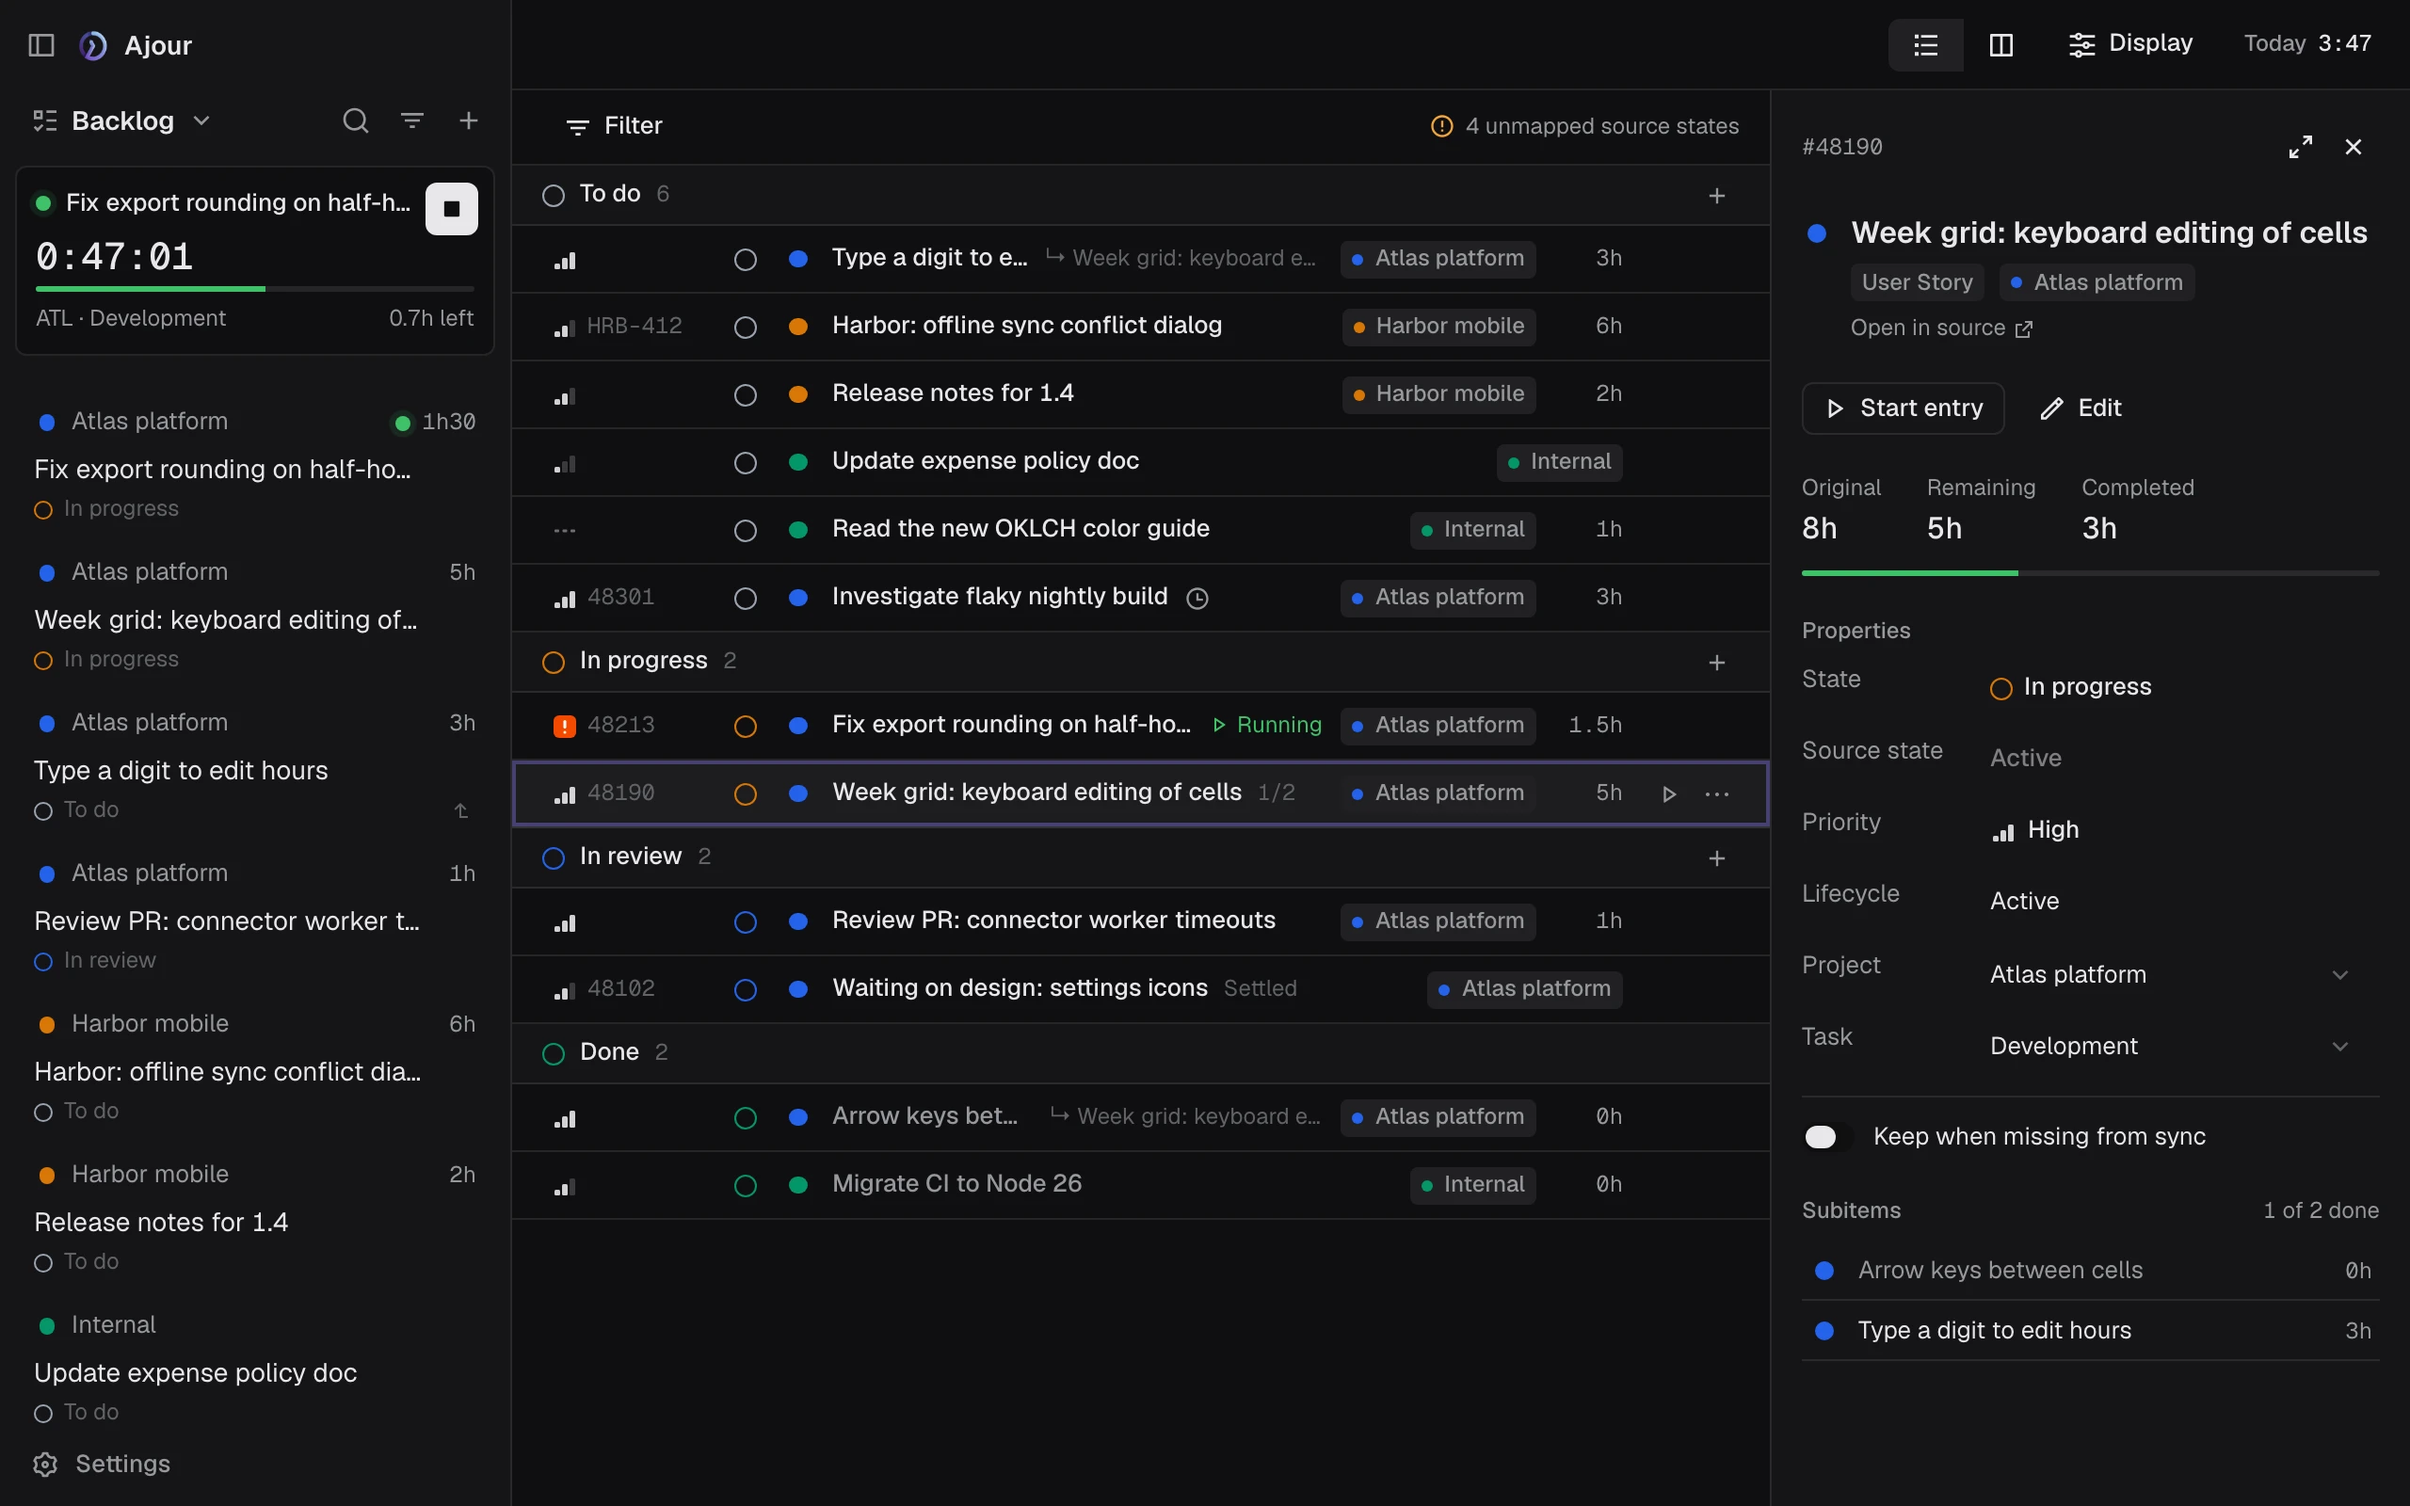
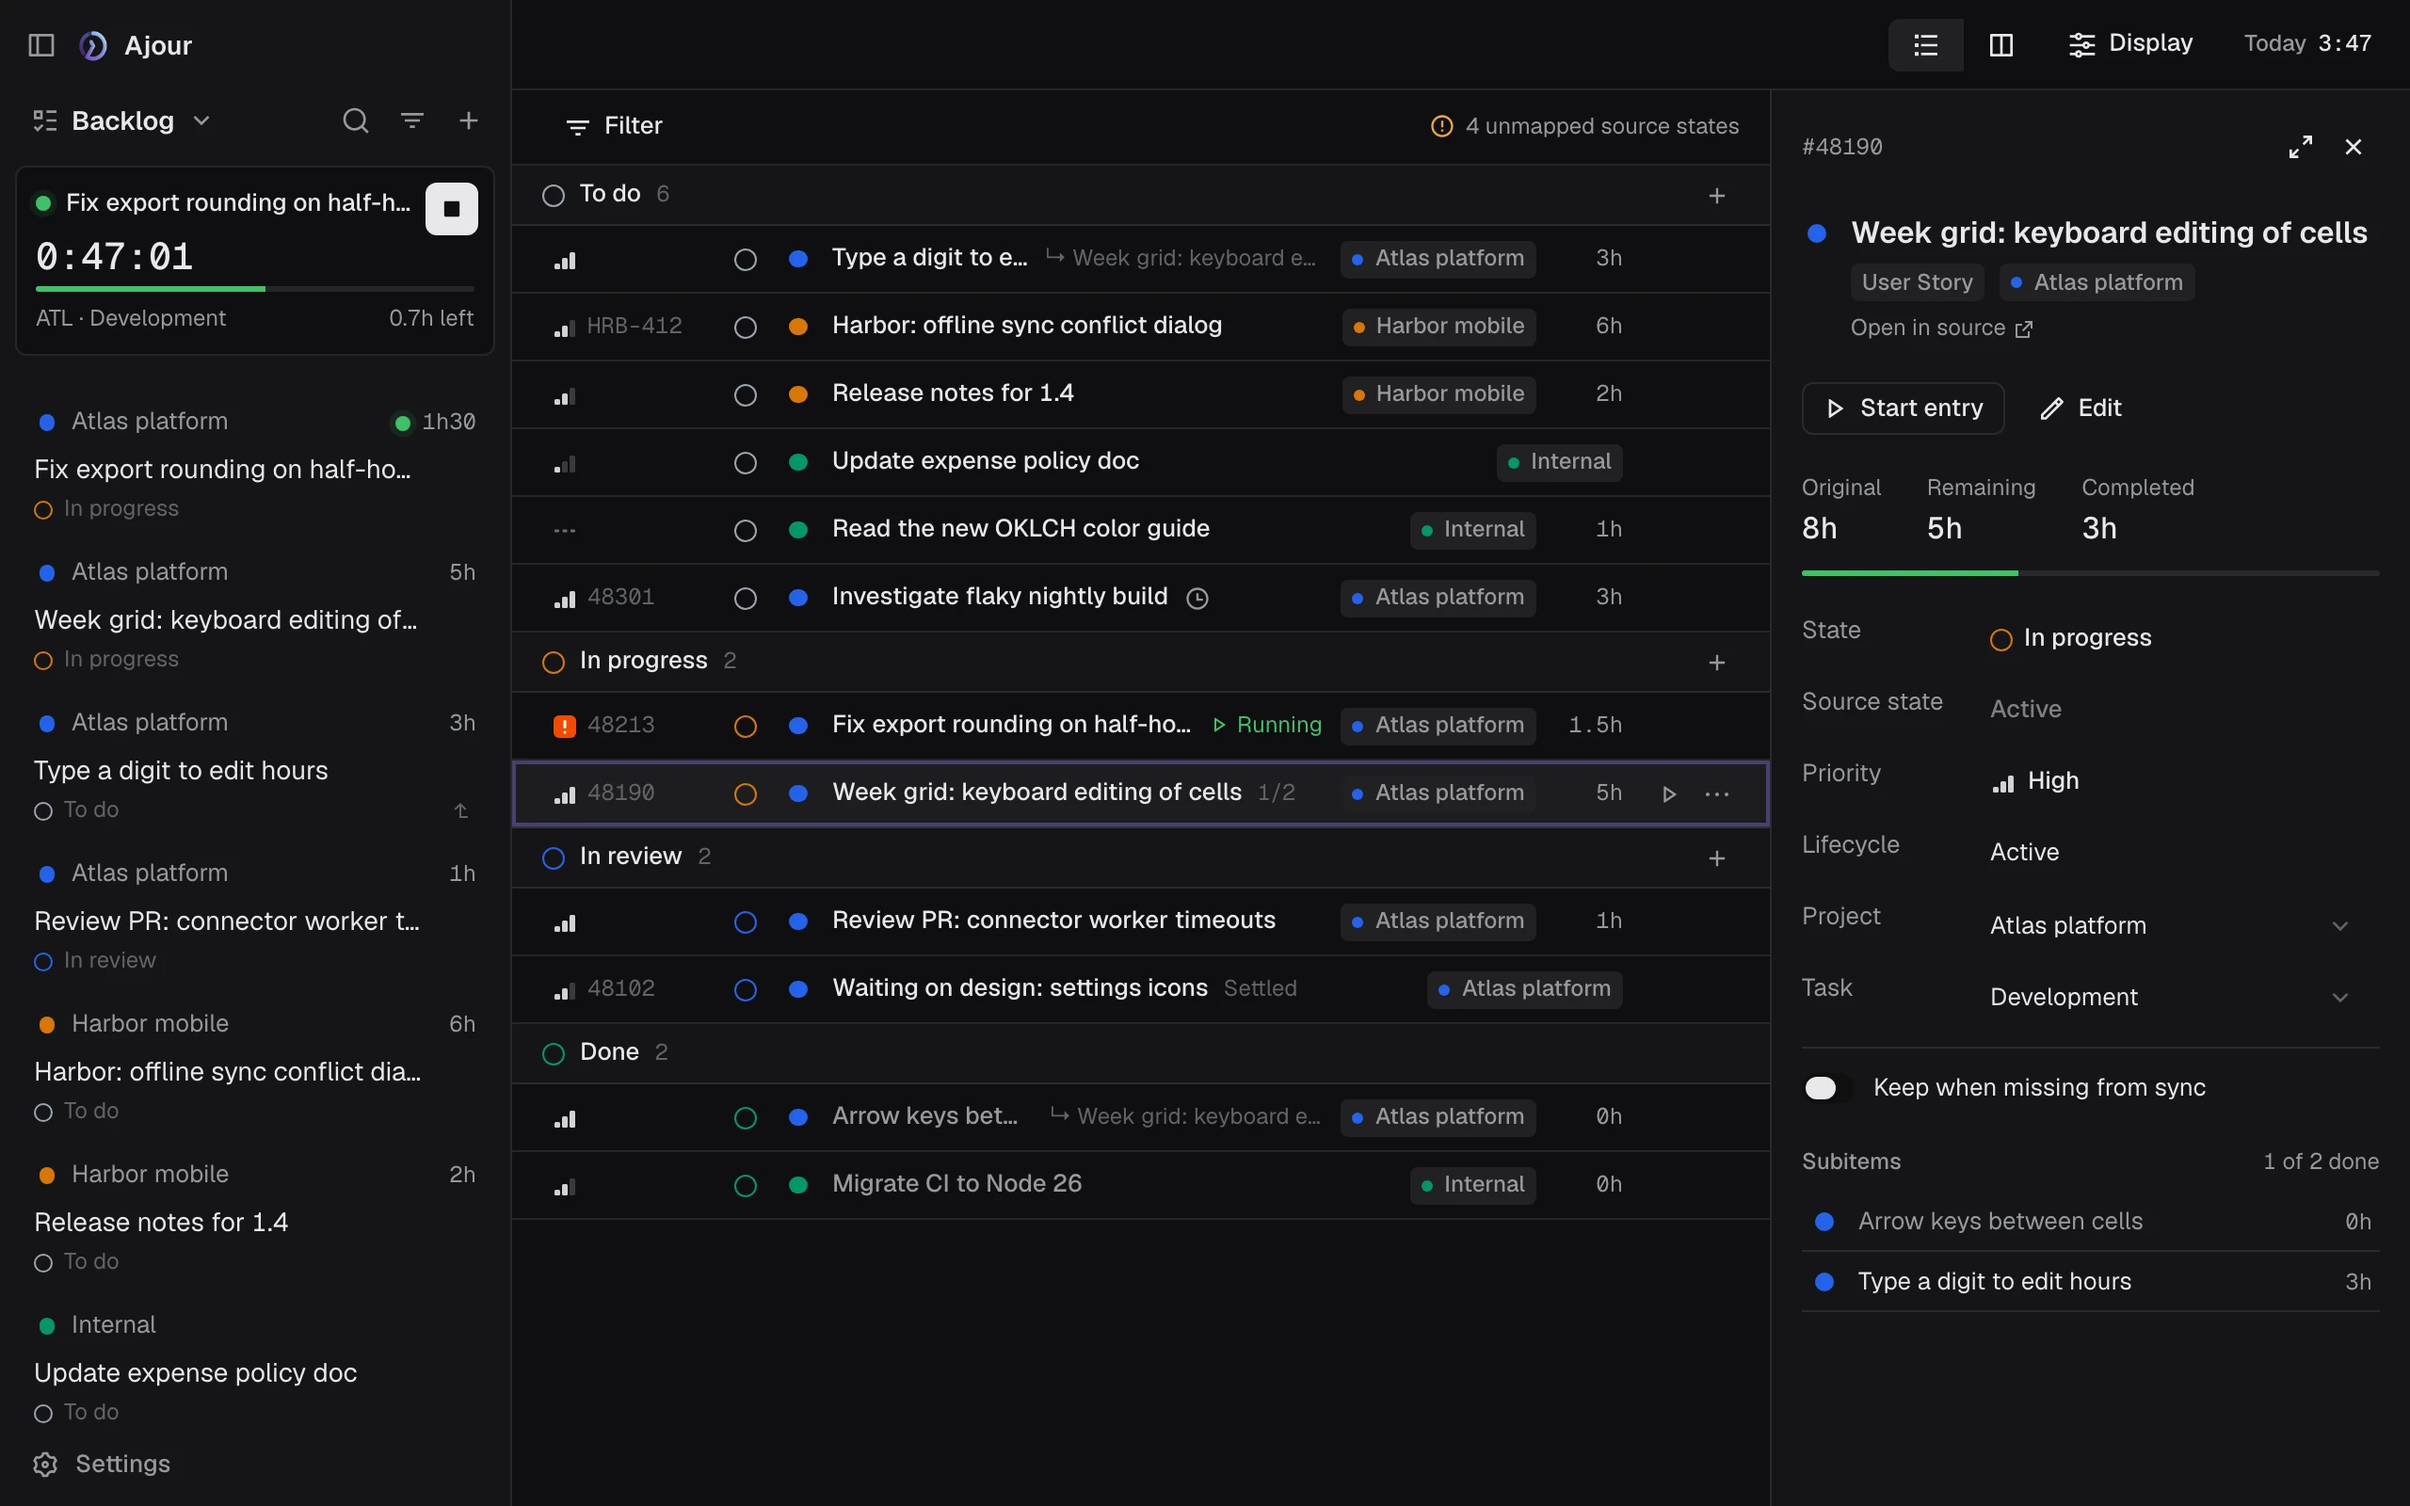
docs: follow the property cards without a Properties heading

diff --git a/apps/docs/backlog/items.md b/apps/docs/backlog/items.md
@@ -20,7 +20,7 @@ Click an item in the sidebar to open its page. On the Backlog page, a click open
 - **Note**, in Markdown. Press **Edit** to change it.
 - **Subitems**. Press **Add subitem**, type a name and press <kbd>Enter</kbd>.
 - **Time entries** logged on the item, with **Add time entry**.
-- **Properties**: state, source state, priority, lifecycle, project, task and source.
+- **The properties card**, at the side: state, source state, priority, lifecycle, project, task and source.
 
 Changes on the page save when you press <kbd>Enter</kbd> or leave the field, with an Undo toast.
 

diff --git a/apps/docs/projects/index.md b/apps/docs/projects/index.md
@@ -33,7 +33,7 @@ Click a project to open its page.
 - **The figures** show time this week and all time, and for budgeted tasks, the budget, the time used and what remains.
 - **Tasks** lists the project's tasks. See [Tasks](/projects/tasks).
 - **Time entries** lists every entry on the project.
-- **Properties** has the full name, code, color, icon and status. Change them in place.
+- **The properties card**, at the side, has the full name, code, color, icon and status. Change them in place.
 
 Click the title to rename the display name.
 
